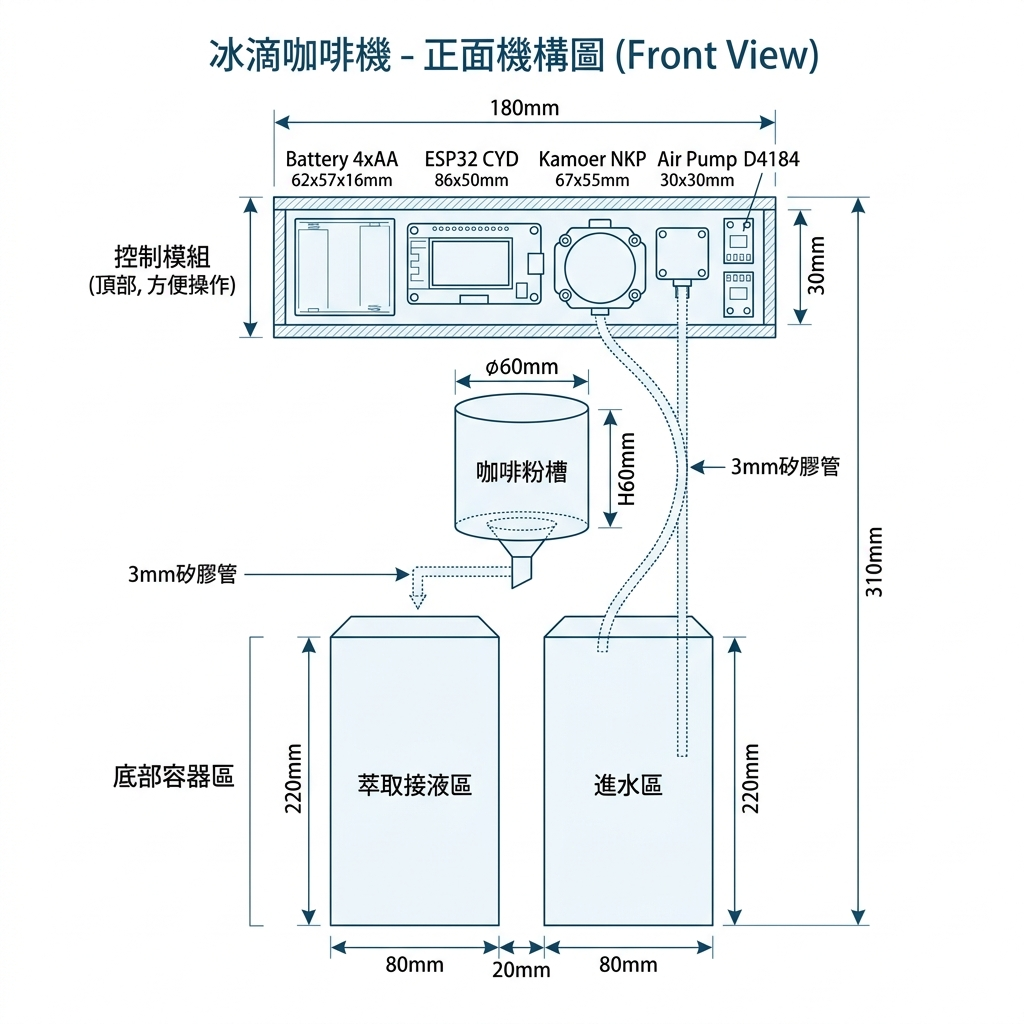
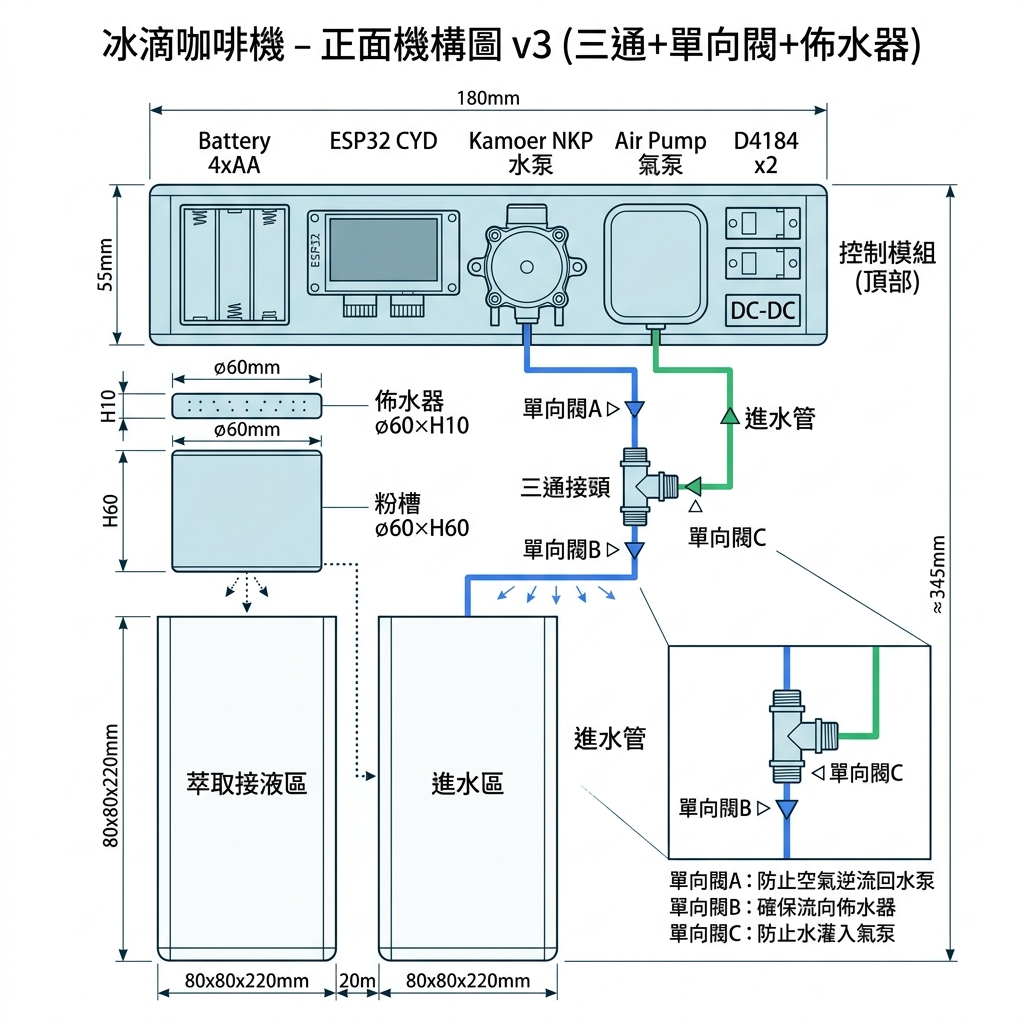
docs: 機構設計v3 - 粉槽左移至萃取區上方、新增佈水器、三通+單向閥×3管路系統、管路系統圖

diff --git a/README.md b/README.md
@@ -26,7 +26,10 @@
 | 降壓件 | DC-DC 降壓模組 (降至 **5V**) | 統一供應所有元件 |
 | 驅動件 | D4184 MOSFET 模組 **x 2** | 分別控制水泵 (GPIO27) 與氣泵 (GPIO22) |
 | 監測件 | 分壓電阻 (100kΩ / 10kΩ) | 電池電壓百分比監測 |
-| 耗材 | 3mm 食品級矽膠管 (FDA/NSF) | 跨接兩側槽體之水路 |
+| 佈水器 | ⌀60 × H10mm 多孔圓盤 | 確保水均勻進入粉層 |
+| 管件 | 三通接頭 (3mm) × 1 | 水泵/氣泵管路匯流 |
+| 管件 | 單向閥 (3mm) × 3 | 防止逆流，確保流向正確 |
+| 耗材 | 3mm 食品級矽膠管 (FDA/NSF) | 水路與氣路管線 |
 | 結構 | PETG 3D 列印密封基座 | 防水、防潮、低重心設計 |
 
 > ⚡ **相較 12V 方案省掉了 MT3608 升壓模組**，降低成本、減少 EMI 干擾、提升 10-15% 電池續航。
@@ -63,23 +66,37 @@ ESP32 GPIO22 → D4184 #2 SIG (氣泵開關)
 
 ## 📐 機構設計
 
-三層垂直結構：控制模組（頂部）→ 咖啡粉槽（中層）→ 容器區（底部）
+三層垂直結構：控制模組（頂部）→ 佈水器+粉槽（中層左側）→ 容器區（底部）
 
-| | 正面圖 | 俯視圖 |
-|---|---|---|
-| | ![正面](docs/mechanical_front_view.png) | ![俯視](docs/mechanical_top_view.png) |
+![正面機構圖](docs/mechanical_front_view.png)
 
 ### 總體尺寸
 
 | 維度 | 尺寸 | 說明 |
 |------|------|------|
-| **總高度** | ~335mm | 控制模組 55 + 粉槽 60 + 容器 220 |
+| **總高度** | ~345mm | 控制模組 55 + 佈水器 10 + 粉槽 60 + 容器 220 |
 | **總寬度** | 180mm | 左容器 80 + 間距 20 + 右容器 80 |
 | **總深度** | 80mm | 容器深度 |
-| **粉槽** | ⌀60 × H60mm | 圓柱體，~170ml 容量 |
-| **容器** | 80×80×220mm × 2 | 各 ~1,408ml 容量 |
+| **粉槽** | ⌀60 × H60mm | 圓柱體，~170ml，位於左側萃取區正上方 |
+| **佈水器** | ⌀60 × H10mm | 多孔圓盤，確保水均勻滴入粉層 |
+| **容器** | 80×80×220mm × 2 | 左=萃取接液，右=進水 |
 
 > 控制模組置於頂部，方便操作螢幕、更換電池與維護線路。
+
+### 管路系統
+
+![管路系統圖](docs/plumbing_schematic.png)
+
+```
+萃取模式: 進水區 → 水泵 → 單向閥A → 三通 → 單向閥B → 佈水器 → 粉槽 → 萃取區
+清掃模式: 氣泵 → 單向閥C → 三通 → 單向閥B → 佈水器 → 粉槽 (吹出殘留水)
+```
+
+| 單向閥 | 位置 | 用途 |
+|--------|------|------|
+| **A** | 水泵出口 → 三通 | 防止 Air Purge 時空氣逆流回水泵 |
+| **B** | 三通 → 佈水器 | 確保流向一律往佈水器方向 |
+| **C** | 氣泵出口 → 三通 | 防止正常抽水時水灌入氣泵 |
 
 ## 🖥️ 操作介面
 